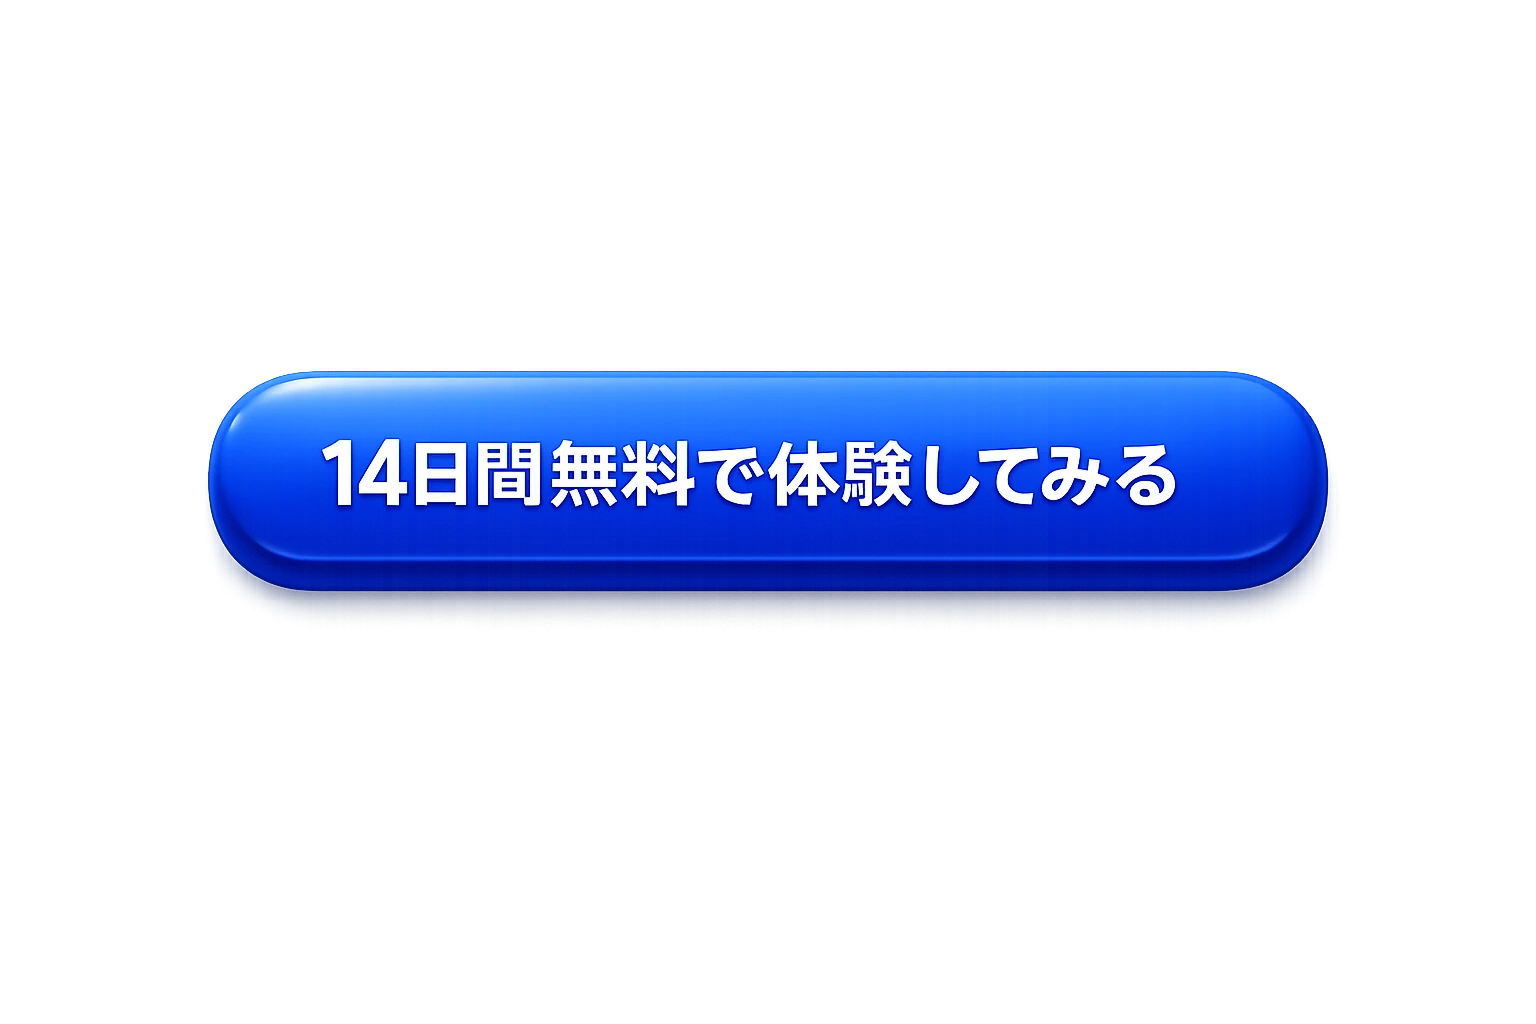
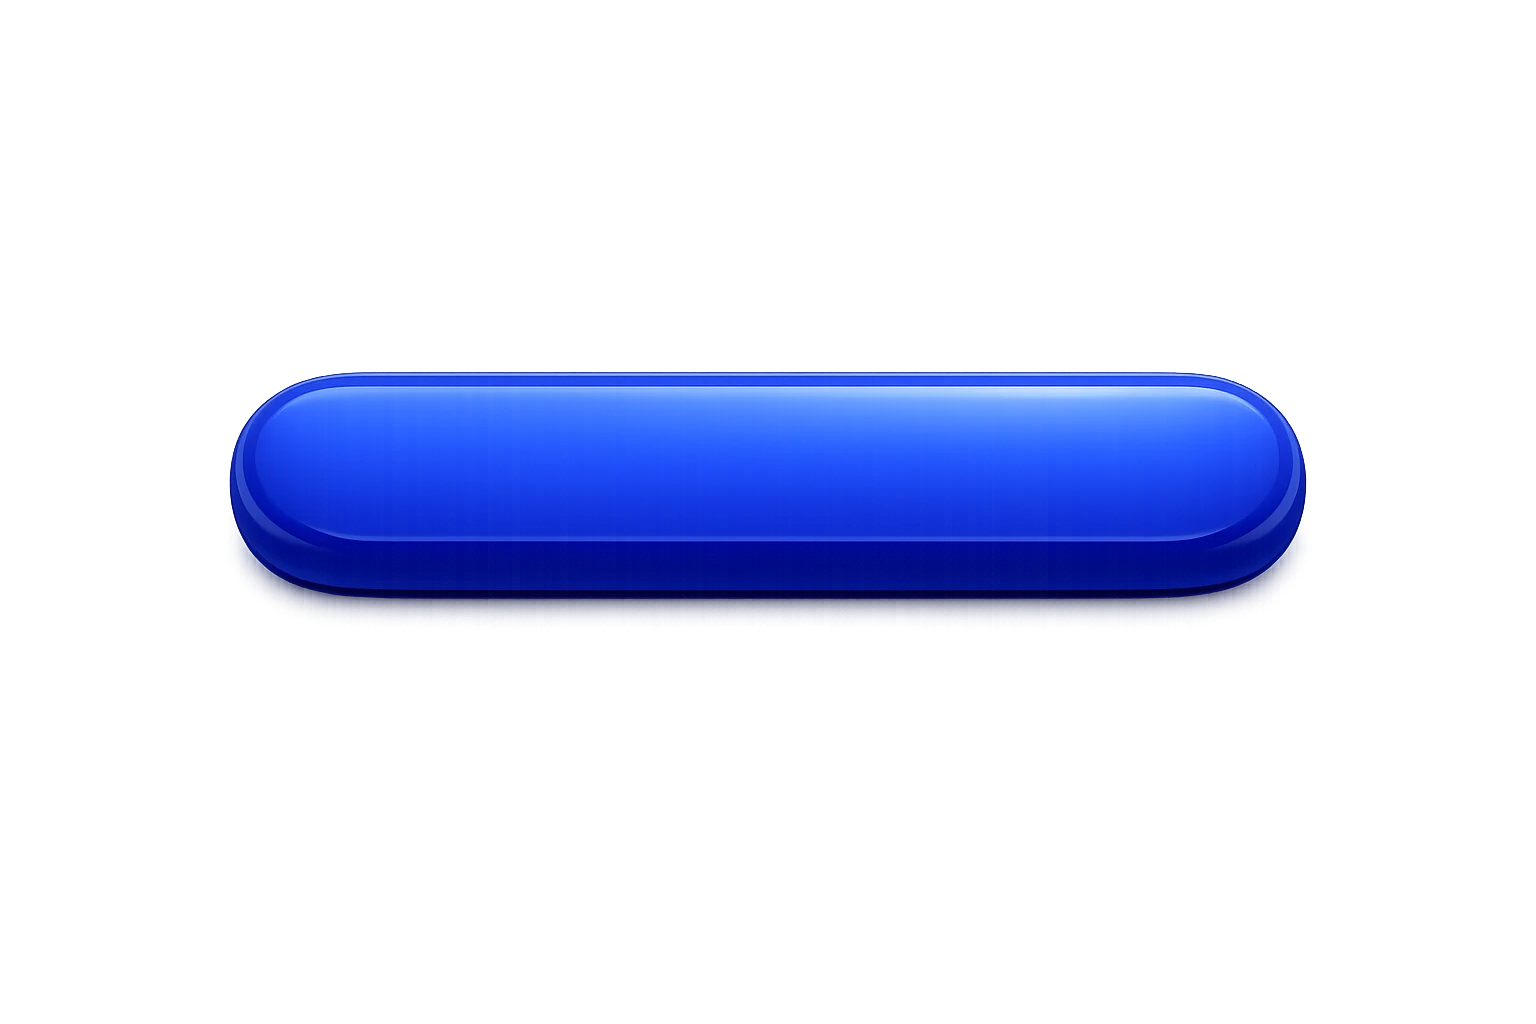
fix(LP): CTAボタンの文字崩れを解消。画像を無地に差し替え、文字はHTMLで重ねる方式に変更

Changed region(s): [[0.125, 0.3438, 0.875, 0.5938]]

diff --git a/lp/index.html b/lp/index.html
@@ -121,6 +121,11 @@
       position: relative; z-index: 1; margin: 8px -16px 0;
     }
     .cta-btn img { width: 100%; display: block; }
+    .cta-btn .cta-btn-label {
+      position: absolute; left: 0; right: 0; top: 47.4%; transform: translateY(-50%);
+      text-align: center; color: #fff; font-weight: 800; font-size: 16px;
+      text-shadow: 0 1px 3px rgba(0,0,0,0.35); pointer-events: none;
+    }
 
     /* セクションとセクションの境目にボタンを浮かせて配置する */
     .cta-seam { position: relative; height: 0; z-index: 5; }
@@ -369,7 +374,7 @@
           <span><span class="ok">✓</span>14日間 無料</span>
           <span><span class="ok">✓</span>カード登録 不要</span>
         </div>
-        <a class="cta-btn" href="https://shiftlink-app.jp/?signup=1"><img loading="lazy" src="images/cta-btn-3d.webp" alt="14日間無料で体験してみる"></a>
+        <a class="cta-btn" href="https://shiftlink-app.jp/?signup=1"><img loading="lazy" src="images/cta-btn-3d.webp" alt=""><span class="cta-btn-label">14日間無料で体験してみる</span></a>
       </div>
     </div>
 
@@ -474,7 +479,7 @@
         <li>電話・LINEでの「入りました」連絡が丸ごと不要になる</li>
         <li>ルーム（部屋）の重複も自動でチェックしてから通知される</li>
       </ul>
-      <a class="cta-btn" href="https://shiftlink-app.jp/?signup=1"><img loading="lazy" src="images/cta-btn-3d.webp" alt="14日間無料で体験してみる"></a>
+      <a class="cta-btn" href="https://shiftlink-app.jp/?signup=1"><img loading="lazy" src="images/cta-btn-3d.webp" alt=""><span class="cta-btn-label">14日間無料で体験してみる</span></a>
     </section>
 
     <!-- 05. 委託金の自動計算 -->
@@ -529,7 +534,7 @@
 
     <div class="cta-seam">
       <div class="cta-seam-inner">
-        <a class="cta-btn" href="https://shiftlink-app.jp/?signup=1"><img loading="lazy" src="images/cta-btn-3d.webp" alt="14日間無料で体験してみる"></a>
+        <a class="cta-btn" href="https://shiftlink-app.jp/?signup=1"><img loading="lazy" src="images/cta-btn-3d.webp" alt=""><span class="cta-btn-label">14日間無料で体験してみる</span></a>
       </div>
     </div>
 
@@ -581,7 +586,7 @@
         <div class="offer-card">コース・オプション・バック率の初期登録を無料代行</div>
         <div class="offer-card">14日間、全機能無料。カード登録は不要</div>
       </div>
-      <a class="cta-btn" href="https://shiftlink-app.jp/?signup=1"><img loading="lazy" src="images/cta-btn-3d.webp" alt="14日間無料で体験してみる"></a>
+      <a class="cta-btn" href="https://shiftlink-app.jp/?signup=1"><img loading="lazy" src="images/cta-btn-3d.webp" alt=""><span class="cta-btn-label">14日間無料で体験してみる</span></a>
     </section>
 
     <!-- 11. 料金＋FAQ＋クロージング -->
@@ -600,7 +605,7 @@
           <span><span class="ok">✓</span>カード登録 不要</span>
           <span><span class="ok">✓</span>いつでも解約可能</span>
         </div>
-        <a class="cta-btn" href="https://shiftlink-app.jp/?signup=1"><img loading="lazy" src="images/cta-btn-3d.webp" alt="14日間無料で体験してみる"></a>
+        <a class="cta-btn" href="https://shiftlink-app.jp/?signup=1"><img loading="lazy" src="images/cta-btn-3d.webp" alt=""><span class="cta-btn-label">14日間無料で体験してみる</span></a>
       </div>
 
       <div class="eyebrow">FAQ</div>
@@ -633,7 +638,7 @@
       <div class="closing">
         <h3>"なんとなく経営"を、<br><span class="hl">今日で終わりに</span>しませんか。</h3>
         <p>予約が入るだけで、売上も委託金もシフトも自動で整う。</p>
-        <a class="cta-btn" href="https://shiftlink-app.jp/?signup=1"><img loading="lazy" src="images/cta-btn-3d.webp" alt="14日間無料で体験してみる"></a>
+        <a class="cta-btn" href="https://shiftlink-app.jp/?signup=1"><img loading="lazy" src="images/cta-btn-3d.webp" alt=""><span class="cta-btn-label">14日間無料で体験してみる</span></a>
         <p class="note">カード登録なし・初期費用0円・いつでも解約可能</p>
       </div>
 
